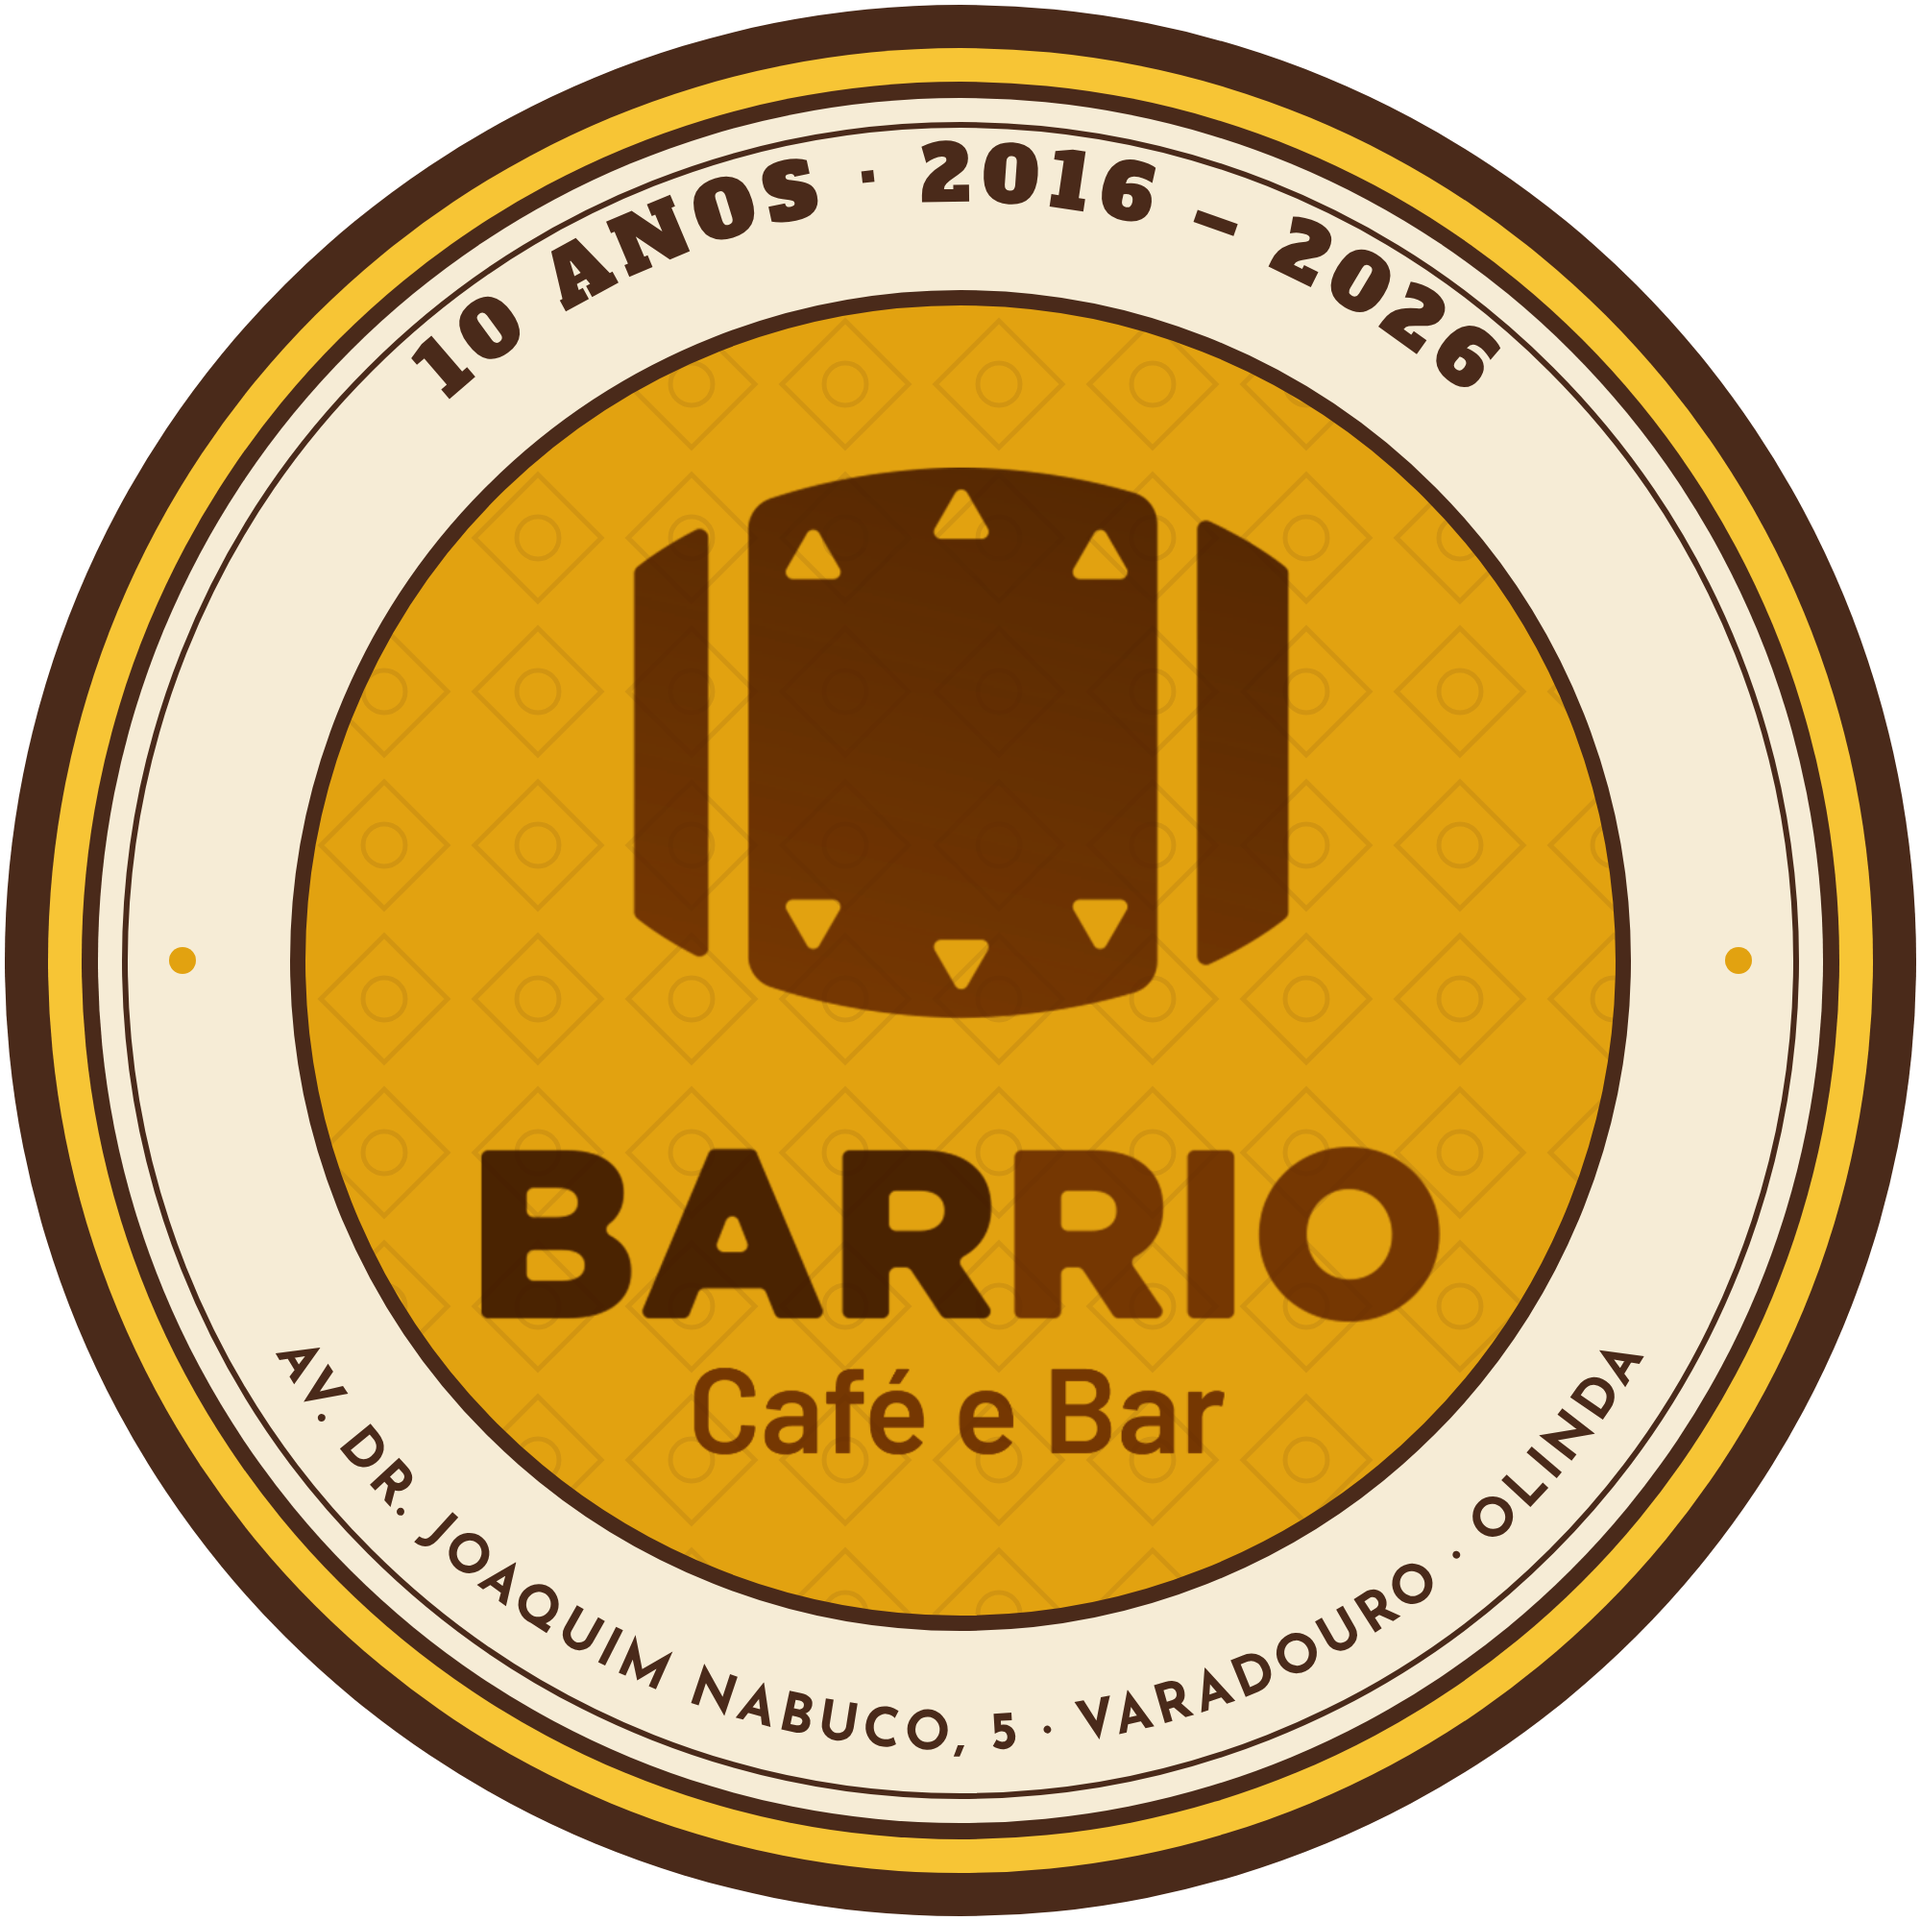
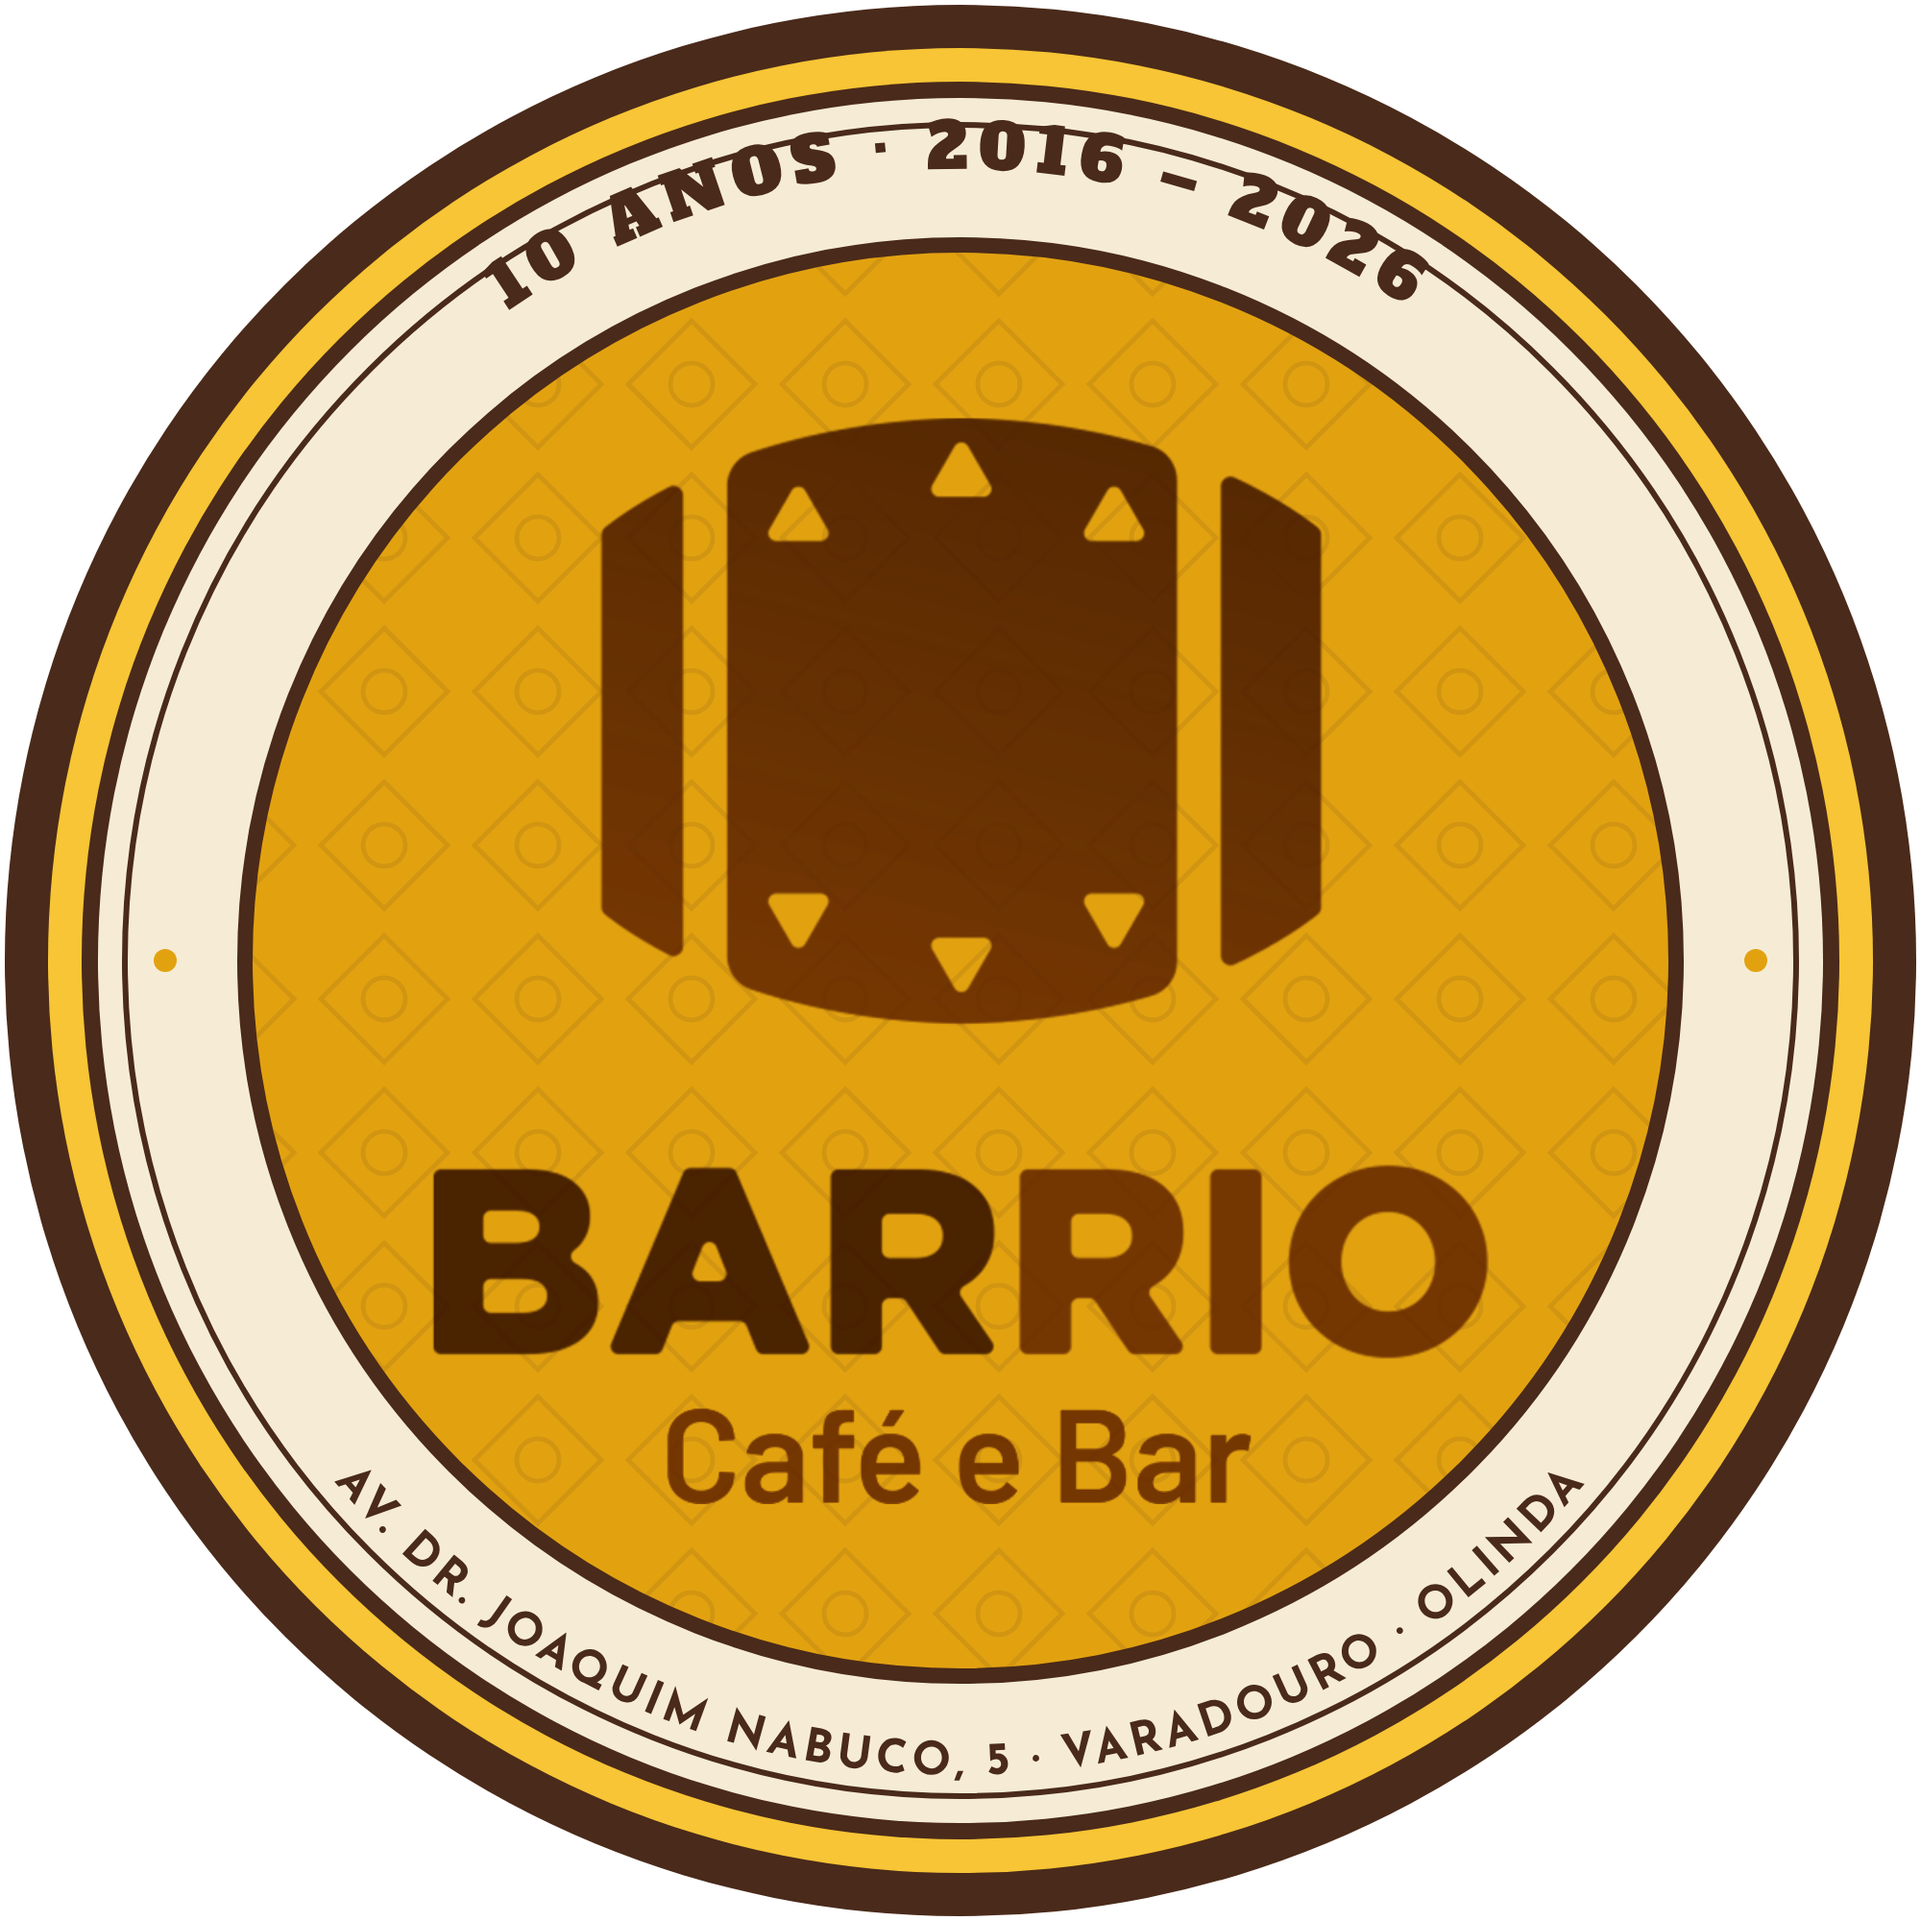
Adesivo redondo: área da marca maior
Claude-Session: https://claude.ai/code/session_01DpBscE2ZgPUbFxmtBxoVQf

Changed region(s): [[0.062, 0.062, 0.93, 0.93], [0.31, 0.217, 0.713, 0.527], [0.465, 0.527, 0.558, 0.558]]

diff --git a/pecas/2026-11-05-adesivos/adesivo-redondo.html b/pecas/2026-11-05-adesivos/adesivo-redondo.html
@@ -10,7 +10,7 @@
   .peca::before { display: none; }
   .adesivo { width: 2000px; height: 2000px; }
   svg { position: absolute; inset: 0; }
-  .logo { position: absolute; left: 50%; top: 50%; width: 1000px; transform: translate(-50%, -50%); }
+  .logo { position: absolute; left: 50%; top: 50%; width: 1100px; transform: translate(-50%, -50%); }
 </style>
 </head>
 <body>
@@ -21,20 +21,20 @@
         <g fill="none" stroke="#4a2a1a" stroke-opacity=".10" stroke-width="5"><path d="M80 14 146 80 80 146 14 80Z"/><circle cx="80" cy="80" r="22"/></g>
       </pattern>
       <radialGradient id="am" cx="50%" cy="42%" r="60%"><stop offset="0" stop-color="#fbd25a"/><stop offset=".6" stop-color="#f7c535"/><stop offset="1" stop-color="#e2a210"/></radialGradient>
-      <path id="baixo" d="M 224 1000 A 776 776 0 0 0 1776 1000"/>
-      <path id="cima" d="M 210 1000 A 790 790 0 0 1 1790 1000"/>
+      <path id="baixo" d="M 192 1000 A 808 808 0 0 0 1808 1000"/>
+      <path id="cima" d="M 176 1000 A 824 824 0 0 1 1824 1000"/>
     </defs>
     <circle cx="1000" cy="1000" r="995" fill="#4a2a1a"/>
     <circle cx="1000" cy="1000" r="950" fill="#f7c535"/>
     <circle cx="1000" cy="1000" r="915" fill="#4a2a1a"/>
     <circle cx="1000" cy="1000" r="898" fill="#f6ecd6"/>
     <circle cx="1000" cy="1000" r="870" fill="none" stroke="#4a2a1a" stroke-width="6"/>
-    <circle cx="1000" cy="1000" r="690" fill="#e2a210"/>
-    <circle cx="1000" cy="1000" r="690" fill="url(#az)"/>
-    <circle cx="1000" cy="1000" r="690" fill="none" stroke="#4a2a1a" stroke-width="16"/>
-    <text font-family="Alfa Slab One" font-size="80" fill="#4a2a1a" letter-spacing="10" text-anchor="middle"><textPath href="#cima" startOffset="50%">10 ANOS · 2016 – 2026</textPath></text>
-    <text font-family="Josefin Sans" font-weight="700" font-size="56" fill="#4a2a1a" letter-spacing="3" text-anchor="middle" dy="46"><textPath href="#baixo" startOffset="50%">AV. DR. JOAQUIM NABUCO, 5 · VARADOURO · OLINDA</textPath></text>
-    <g fill="#e2a210"><circle cx="190" cy="1000" r="14"/><circle cx="1810" cy="1000" r="14"/></g>
+    <circle cx="1000" cy="1000" r="745" fill="#e2a210"/>
+    <circle cx="1000" cy="1000" r="745" fill="url(#az)"/>
+    <circle cx="1000" cy="1000" r="745" fill="none" stroke="#4a2a1a" stroke-width="16"/>
+    <text font-family="Alfa Slab One" font-size="66" fill="#4a2a1a" letter-spacing="10" text-anchor="middle"><textPath href="#cima" startOffset="50%">10 ANOS · 2016 – 2026</textPath></text>
+    <text font-family="Josefin Sans" font-weight="700" font-size="48" fill="#4a2a1a" letter-spacing="3" text-anchor="middle" dy="40"><textPath href="#baixo" startOffset="50%">AV. DR. JOAQUIM NABUCO, 5 · VARADOURO · OLINDA</textPath></text>
+    <g fill="#e2a210"><circle cx="172" cy="1000" r="12"/><circle cx="1828" cy="1000" r="12"/></g>
   </svg>
   <img class="logo" src="../../marca/logo/barrio-logo-marrom.png" alt="Barrio Café e Bar">
 </div>
